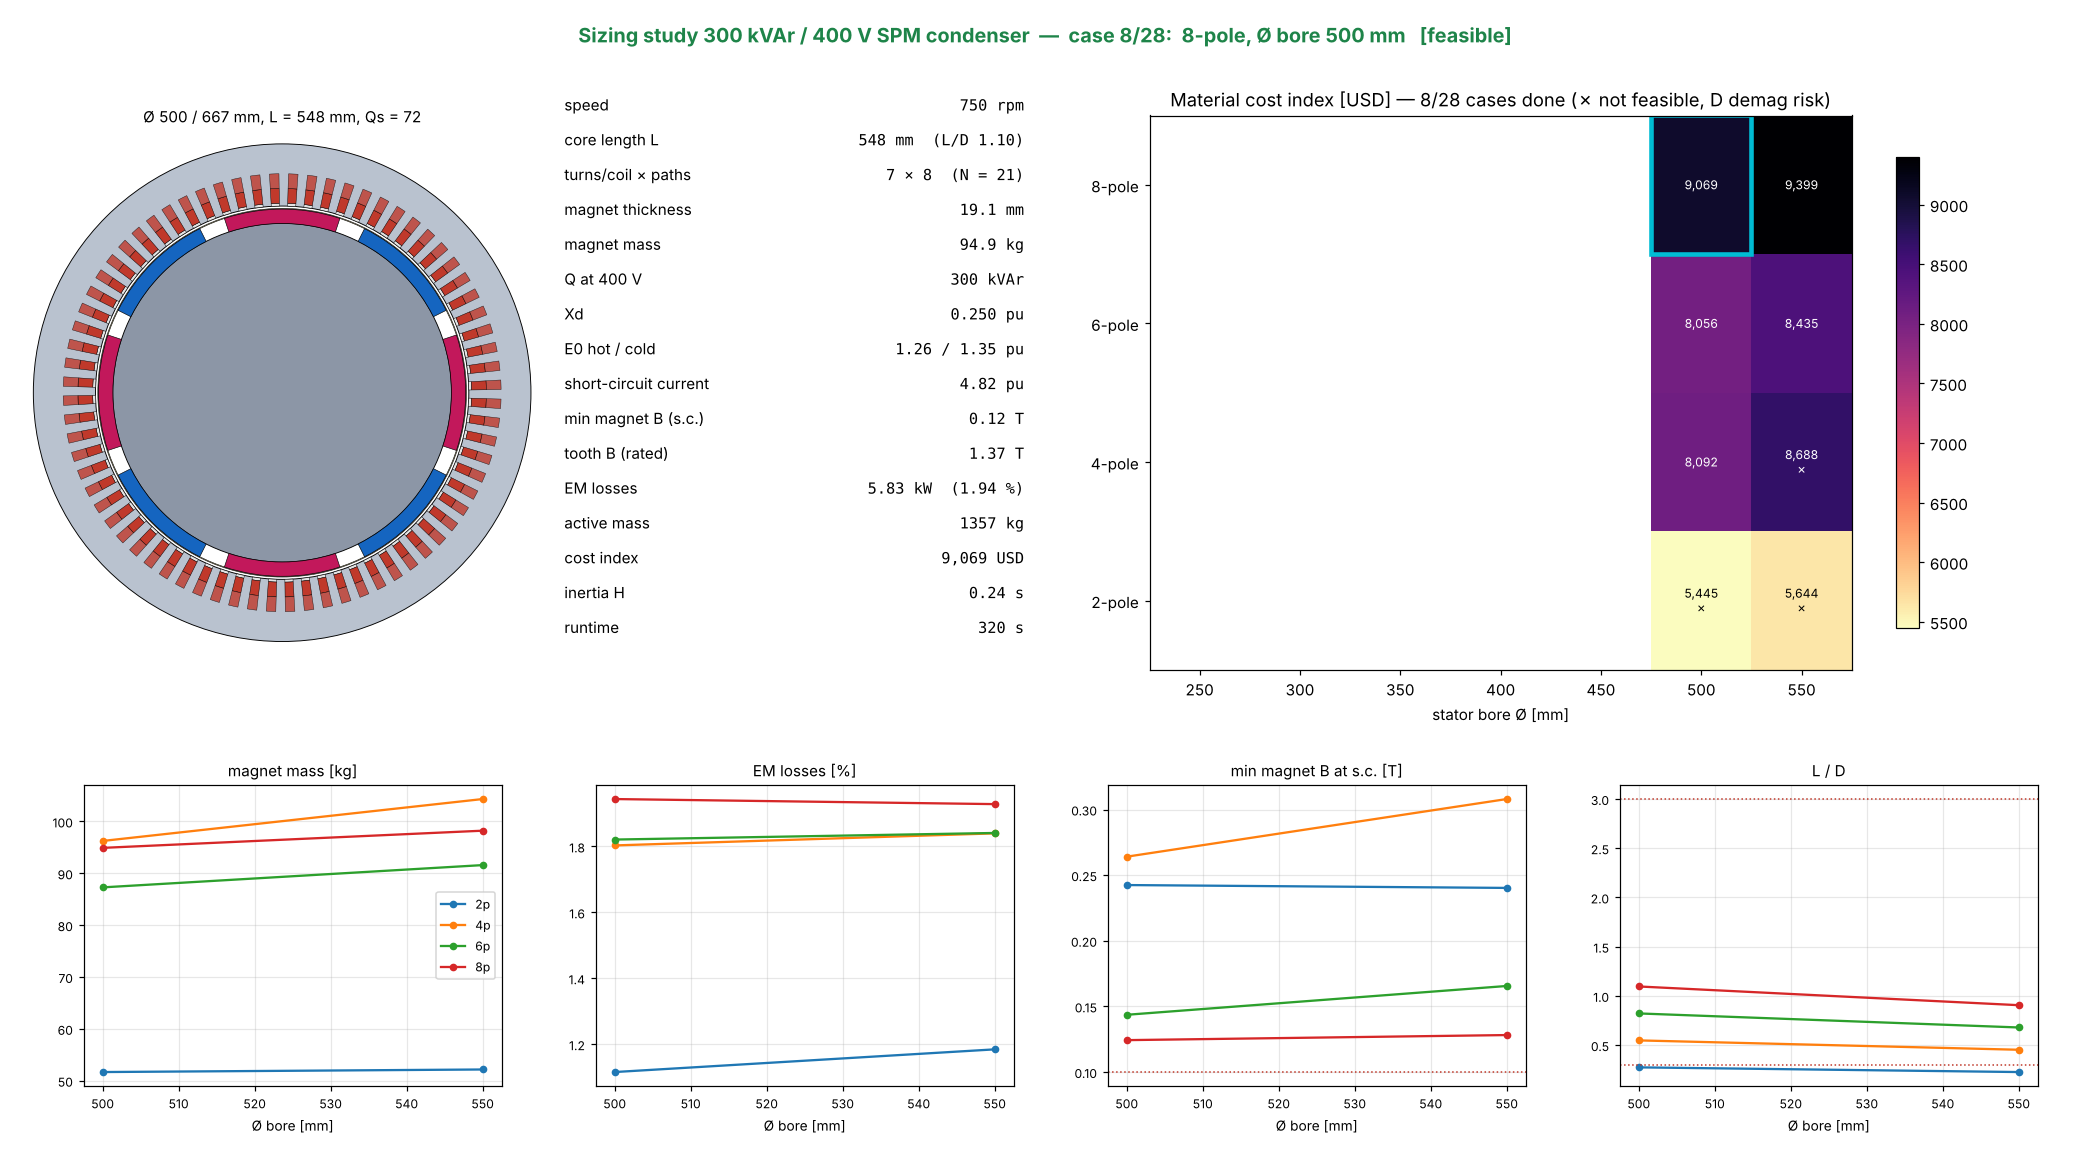
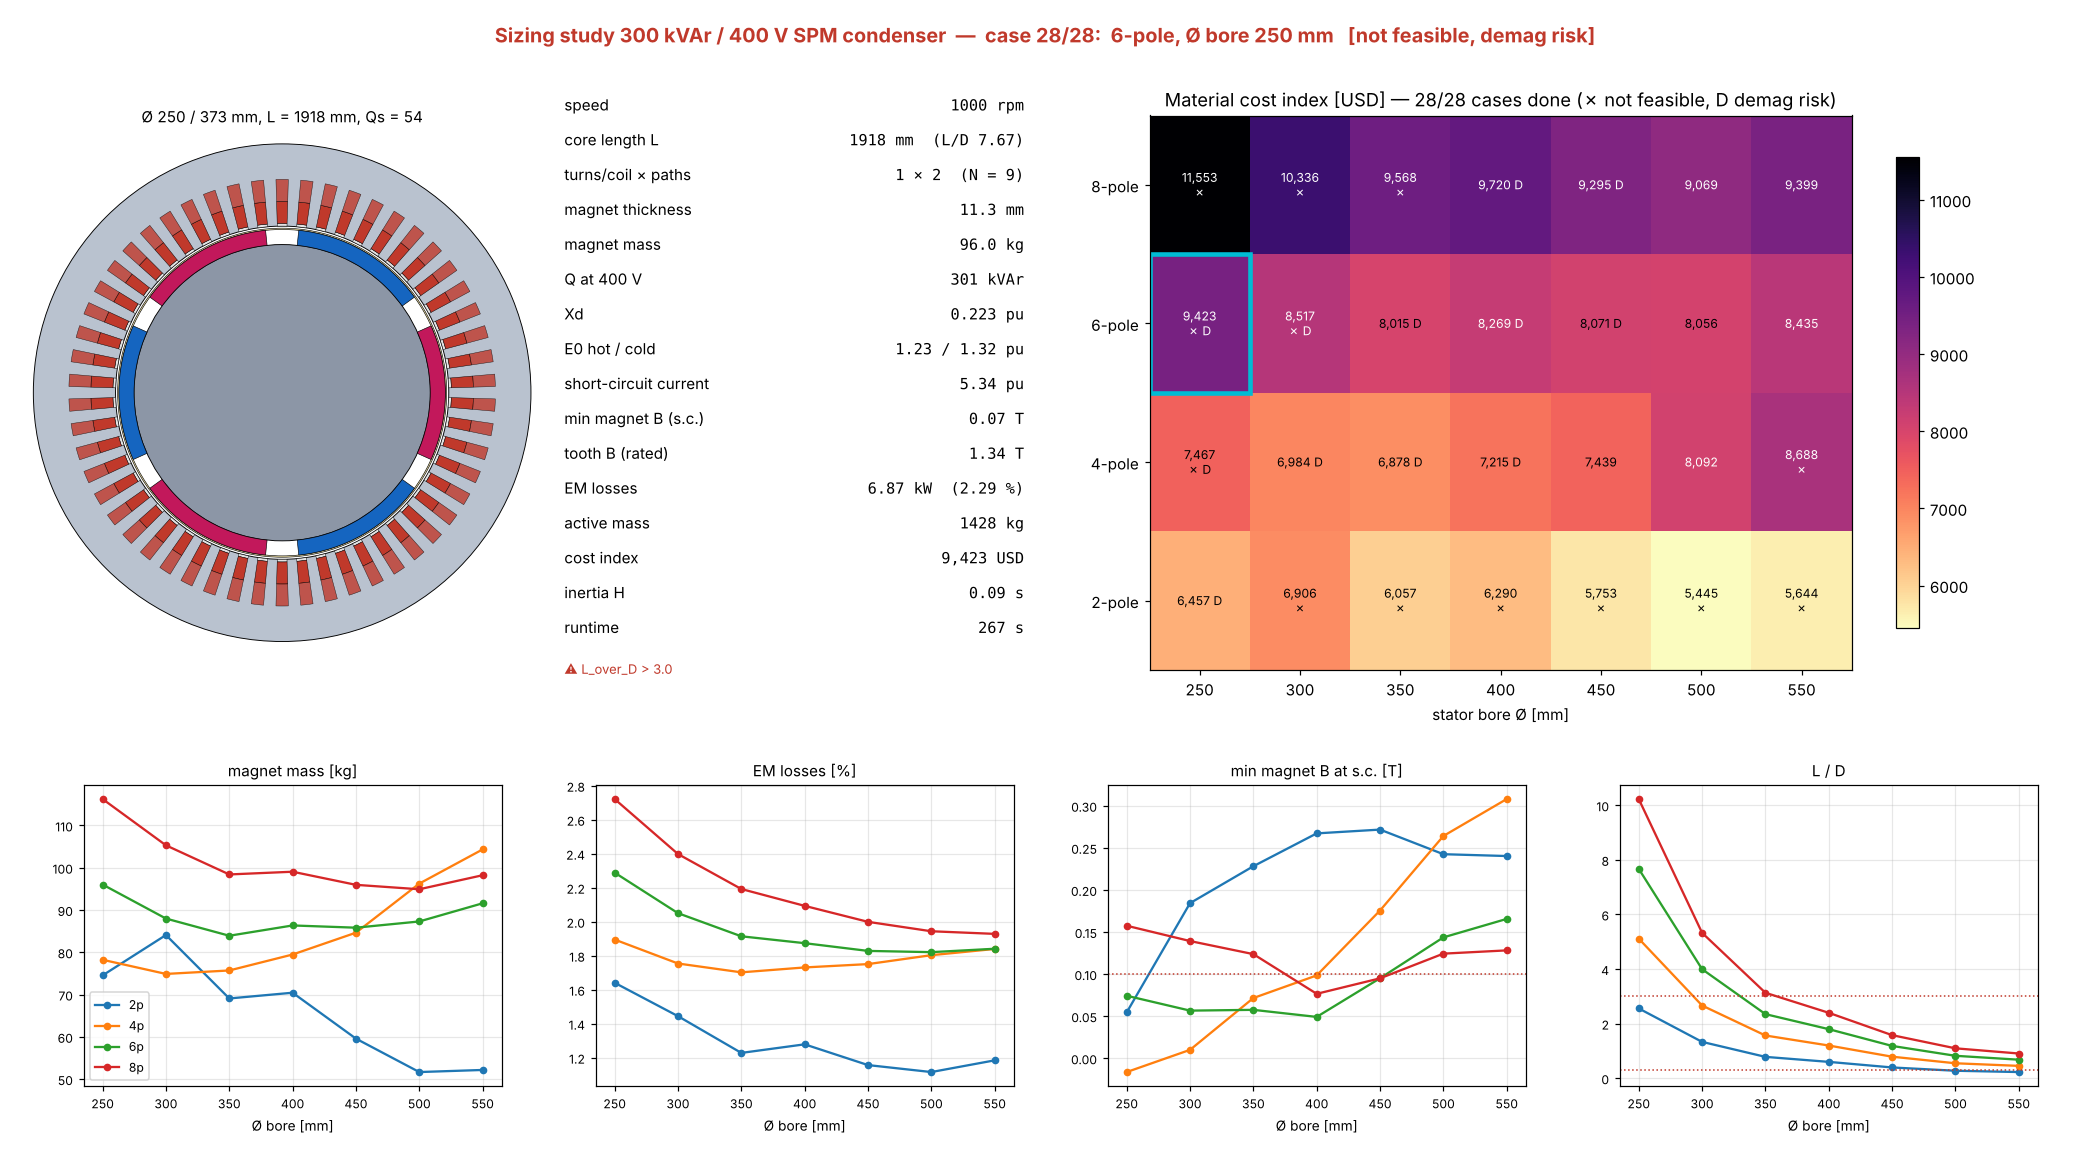
Sizing study: complete 28-case results and readable heatmaps
Text colour follows cell luminance, the best-design star sits in the cell
corner, stator OD shown in mm; --replot redraws from the CSV.

Claude-Session: https://claude.ai/code/session_01Wy5ajQpRW8F3bnLWaEm37M

diff --git a/Liang_PM_Sizing/run_sizing.py b/Liang_PM_Sizing/run_sizing.py
@@ -44,6 +44,8 @@ METRICS = [  # key, title, format, colormap, "lower is better"
     ("thd_line_pct", "EMF THD line-line [%]", "{:.2f}", "magma_r", True),
 ]
 
+SCALE = {"D_out": 1e3}          # stored in m, shown in mm
+
 LIMITS = dict(L_over_D=(0.3, 3.0), B_tooth_rated=(None, 2.0), I_cold_pu=(None, 1.6))
 
 
@@ -137,7 +139,7 @@ class LivePlot:
             v = rr.get("cost_usd", np.nan)
             okk, dmk, _ = feasible(rr, demag_limit)
             axh.text(j, i, ("—" if np.isnan(v) else f"{v:,.0f}") + ("" if okk else "\n✗") + ("" if dmk else " D"),
-                     ha="center", va="center", fontsize=8, color="k" if np.isnan(v) or v < np.nanmax(M) * 0.7 else "w")
+                     ha="center", va="center", fontsize=8, color=_txt_color(im, v))
         axh.add_patch(plt.Rectangle((_nearest(self.Ds, r["D_bore"]) - 0.5, self.poles.index(r["poles"]) - 0.5),
                                     1, 1, fill=False, ec="#00bcd4", lw=3))
         axh.set_xticks(range(len(self.Ds)), [f"{x * 1e3:.0f}" for x in self.Ds])
@@ -172,6 +174,18 @@ class LivePlot:
         return path
 
 
+def _txt_color(im, v):
+    """Black or white text depending on the cell colour luminance."""
+    if v is None or (isinstance(v, float) and np.isnan(v)):
+        return "k"
+    r_, g_, b_, _ = im.cmap(im.norm(v))
+    return "k" if 0.299 * r_ + 0.587 * g_ + 0.114 * b_ > 0.5 else "w"
+
+
+def _star(ax, j, i):
+    ax.plot(j - 0.36, i + 0.30, marker="*", ms=13, mec="k", mfc="#00e5ff", zorder=5)
+
+
 def _nearest(arr, v):
     return int(np.argmin(np.abs(np.asarray(arr) - v)))
 
@@ -189,7 +203,7 @@ def plot_heatmaps(rows, poles, Ds, outdir, demag_limit):
         for (p, j), r in idx.items():
             if p in poles:
                 v = r.get(key, np.nan)
-                M[poles.index(p), j] = v if isinstance(v, (int, float)) else np.nan
+                M[poles.index(p), j] = v * SCALE.get(key, 1.0) if isinstance(v, (int, float)) else np.nan
         im = ax.imshow(M, cmap=cmap, aspect="auto", origin="lower")
         vmax, vmin = np.nanmax(M) if np.isfinite(M).any() else 1, np.nanmin(M) if np.isfinite(M).any() else 0
         for (p, j), r in idx.items():
@@ -197,16 +211,14 @@ def plot_heatmaps(rows, poles, Ds, outdir, demag_limit):
             v = M[i, j]
             ok, dm_ok, _ = feasible(r, demag_limit)
             txt = "—" if np.isnan(v) else fmt.format(v)
-            frac = 0.5 if vmax == vmin or np.isnan(v) else (v - vmin) / (vmax - vmin)
-            dark = (frac > 0.6) if not cmap.endswith("_r") else (frac > 0.6)
-            ax.text(j, i, txt, ha="center", va="center", fontsize=7.5, color="w" if dark and cmap != "RdYlGn" else "k")
+            ax.text(j, i, txt, ha="center", va="center", fontsize=7.5, color=_txt_color(im, v))
             if not ok:
                 ax.add_patch(plt.Rectangle((j - 0.5, i - 0.5), 1, 1, fill=False, hatch="///", ec="#555555", lw=0))
             if not dm_ok:
-                ax.text(j + 0.42, i + 0.32, "D", fontsize=6, color="#c0392b", ha="right", fontweight="bold")
+                ax.text(j + 0.42, i + 0.30, "D", fontsize=7, color="#ff5252", ha="right", va="center",
+                        fontweight="bold")
         if best is not None:
-            ax.plot(_nearest(Ds, best["D_bore"]), poles.index(best["poles"]), marker="*", ms=16,
-                    mec="k", mfc="#00e5ff")
+            _star(ax, _nearest(Ds, best["D_bore"]), poles.index(best["poles"]))
         ax.set_xticks(range(len(Ds)), [f"{x * 1e3:.0f}" for x in Ds], fontsize=8)
         ax.set_yticks(range(len(poles)), [f"{p}p" for p in poles], fontsize=8)
         ax.set_title(title, fontsize=10)
@@ -231,11 +243,11 @@ def plot_heatmaps(rows, poles, Ds, outdir, demag_limit):
         for (p, j), r in idx.items():
             i = poles.index(p); ok, dm_ok, _ = feasible(r, demag_limit)
             ax.text(j, i, ("—" if np.isnan(M[i, j]) else fmt.format(M[i, j])) + ("" if dm_ok else "\nD"),
-                    ha="center", va="center", fontsize=9)
+                    ha="center", va="center", fontsize=9, color=_txt_color(im, M[i, j]))
             if not ok:
                 ax.add_patch(plt.Rectangle((j - 0.5, i - 0.5), 1, 1, fill=False, hatch="///", ec="#555555", lw=0))
         if best is not None:
-            ax.plot(_nearest(Ds, best["D_bore"]), poles.index(best["poles"]), "*", ms=20, mec="k", mfc="#00e5ff")
+            _star(ax, _nearest(Ds, best["D_bore"]), poles.index(best["poles"]))
         ax.set_xticks(range(len(Ds)), [f"{x * 1e3:.0f}" for x in Ds]); ax.set_yticks(range(len(poles)), [f"{p}-pole" for p in poles])
         ax.set_xlabel("stator bore Ø [mm]"); ax.set_title(title); fig.colorbar(im, ax=ax, shrink=0.85)
     fig.suptitle("Decision heatmaps (/// not feasible, D demag risk, ★ lowest-cost feasible)", fontsize=13, fontweight="bold")
@@ -263,7 +275,7 @@ def write_report(rows, poles, Ds, outdir, demag_limit, files, runtime):
     feas = [r for r in rows if feasible(r, demag_limit)[0]]
     lines = [f"# Sizing study — 300 kVAr / 400 V SPM synchronous condenser\n",
              f"{len(rows)} cases: poles {poles}, stator bore {', '.join(f'{d * 1e3:.0f}' for d in Ds)} mm. "
-             f"Runtime {runtime / 60:.1f} min. Demagnetisation limit {demag_limit:.2f} T.\n",
+             (f"Runtime {runtime / 60:.1f} min. " if runtime else "") + f"Demagnetisation limit {demag_limit:.2f} T.\n",
              "Feasibility: " + ", ".join(f"{k} in {v}" for k, v in LIMITS.items()) + "; magnets sized for rated kVAr.\n"]
     if best:
         lines.append(f"**Lowest material cost feasible design:** {best['poles']}-pole, Ø bore {best['D_bore'] * 1e3:.0f} mm, "

diff --git a/Liang_PM_Sizing/results/sizing_report.md b/Liang_PM_Sizing/results/sizing_report.md
@@ -1,0 +1,42 @@
+# Sizing study — 300 kVAr / 400 V SPM synchronous condenser
+
+28 cases: poles [2, 4, 6, 8], stator bore 250, 300, 350, 400, 450, 500, 550 mm. Runtime 0.0 min. Demagnetisation limit 0.10 T.
+
+Feasibility: L_over_D in (0.3, 3.0), B_tooth_rated in (None, 2.0), I_cold_pu in (None, 1.6); magnets sized for rated kVAr.
+
+**Lowest material cost feasible design:** 4-pole, Ø bore 450 mm, L = 355 mm, OD 676 mm, magnets 30.9 mm (85 kg), losses 1.75 %, cost index 7,439 USD, demag OK.
+
+![decision](heatmaps_decision.png)
+
+![all](heatmaps_all.png)
+
+| poles | Ø bore | L | L/D | OD | h_m | magnet kg | loss % | Xd | I_sc pu | B_sc T | cost USD | feasible | demag |
+|---|---|---|---|---|---|---|---|---|---|---|---|---|---|
+| 2 | 550 | 125 | 0.23 | 982 | 45.0 | 52 | 1.18 | 0.588 | 2.10 | 0.24 | 5,644 | ✗ Q < rated even with 45 mm magnets; L_over_D < 0.3 | ✓ |
+| 2 | 500 | 137 | 0.27 | 906 | 45.0 | 52 | 1.12 | 0.592 | 2.09 | 0.24 | 5,445 | ✗ Q < rated even with 45 mm magnets; L_over_D < 0.3 | ✓ |
+| 2 | 450 | 178 | 0.39 | 820 | 45.0 | 60 | 1.16 | 0.554 | 2.25 | 0.27 | 5,753 | ✗ Q < rated even with 45 mm magnets | ✓ |
+| 2 | 400 | 240 | 0.60 | 732 | 45.0 | 70 | 1.28 | 0.454 | 2.74 | 0.27 | 6,290 | ✗ Q < rated even with 45 mm magnets | ✓ |
+| 2 | 350 | 274 | 0.78 | 658 | 45.0 | 69 | 1.23 | 0.406 | 3.04 | 0.23 | 6,057 | ✗ Q < rated even with 45 mm magnets | ✓ |
+| 2 | 300 | 400 | 1.33 | 570 | 45.0 | 84 | 1.44 | 0.292 | 4.18 | 0.18 | 6,906 | ✗ Q < rated even with 45 mm magnets | ✓ |
+| 2 | 250 | 639 | 2.56 | 480 | 28.8 | 75 | 1.64 | 0.264 | 4.56 | 0.05 | 6,457 | ✓ | ⚠ |
+| 4 | 550 | 249 | 0.45 | 806 | 45.0 | 104 | 1.84 | 0.332 | 3.86 | 0.31 | 8,688 | ✗ Q < rated even with 45 mm magnets | ✓ |
+| 4 | 500 | 274 | 0.55 | 746 | 41.6 | 96 | 1.80 | 0.321 | 3.96 | 0.26 | 8,092 | ✓ | ✓ |
+| 4 | 450 | 355 | 0.79 | 676 | 30.9 | 85 | 1.75 | 0.301 | 4.14 | 0.18 | 7,439 | ✓ | ✓ |
+| 4 | 400 | 479 | 1.20 | 604 | 23.9 | 79 | 1.73 | 0.280 | 4.38 | 0.10 | 7,215 | ✓ | ⚠ |
+| 4 | 350 | 548 | 1.57 | 547 | 23.0 | 76 | 1.70 | 0.283 | 4.33 | 0.07 | 6,878 | ✓ | ⚠ |
+| 4 | 300 | 799 | 2.66 | 474 | 18.1 | 75 | 1.75 | 0.264 | 4.58 | 0.01 | 6,984 | ✓ | ⚠ |
+| 4 | 250 | 1279 | 5.11 | 400 | 14.1 | 78 | 1.90 | 0.243 | 4.94 | -0.02 | 7,467 | ✗ L_over_D > 3.0 | ⚠ |
+| 6 | 550 | 374 | 0.68 | 748 | 25.0 | 92 | 1.84 | 0.277 | 4.45 | 0.17 | 8,435 | ✓ | ✓ |
+| 6 | 500 | 411 | 0.82 | 693 | 23.9 | 87 | 1.82 | 0.279 | 4.40 | 0.14 | 8,056 | ✓ | ✓ |
+| 6 | 450 | 533 | 1.18 | 628 | 20.1 | 86 | 1.83 | 0.262 | 4.64 | 0.10 | 8,071 | ✓ | ⚠ |
+| 6 | 400 | 719 | 1.80 | 562 | 16.8 | 86 | 1.87 | 0.244 | 4.92 | 0.05 | 8,269 | ✓ | ⚠ |
+| 6 | 350 | 822 | 2.35 | 509 | 16.4 | 84 | 1.91 | 0.255 | 4.74 | 0.06 | 8,015 | ✓ | ⚠ |
+| 6 | 300 | 1199 | 4.00 | 442 | 13.8 | 88 | 2.05 | 0.241 | 4.98 | 0.06 | 8,517 | ✗ L_over_D > 3.0 | ⚠ |
+| 6 | 250 | 1918 | 7.67 | 373 | 11.3 | 96 | 2.29 | 0.223 | 5.34 | 0.07 | 9,423 | ✗ L_over_D > 3.0 | ⚠ |
+| 8 | 550 | 498 | 0.91 | 719 | 19.7 | 98 | 1.93 | 0.243 | 4.95 | 0.13 | 9,399 | ✓ | ✓ |
+| 8 | 500 | 548 | 1.10 | 667 | 19.1 | 95 | 1.94 | 0.250 | 4.82 | 0.12 | 9,069 | ✓ | ✓ |
+| 8 | 450 | 710 | 1.58 | 604 | 16.5 | 96 | 2.00 | 0.236 | 5.07 | 0.09 | 9,295 | ✓ | ⚠ |
+| 8 | 400 | 959 | 2.40 | 540 | 14.2 | 99 | 2.09 | 0.222 | 5.36 | 0.08 | 9,720 | ✓ | ⚠ |
+| 8 | 350 | 1096 | 3.13 | 491 | 14.2 | 98 | 2.19 | 0.239 | 5.01 | 0.12 | 9,568 | ✗ L_over_D > 3.0 | ✓ |
+| 8 | 300 | 1598 | 5.33 | 426 | 12.2 | 105 | 2.40 | 0.227 | 5.24 | 0.14 | 10,336 | ✗ L_over_D > 3.0 | ✓ |
+| 8 | 250 | 2557 | 10.23 | 360 | 10.1 | 116 | 2.72 | 0.210 | 5.63 | 0.16 | 11,553 | ✗ L_over_D > 3.0 | ✓ |
